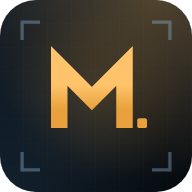
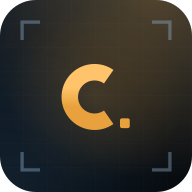
feat: знак иконки — «С» вместо «M»
Дуга с разрезом вправо и срезанными по радиусу концами, янтарная точка
логотипа осталась справа внизу. Кафель, сетка, зарево и уголки прицела
не менялись. На 16px буква читается — проверено на увеличенном рендере.

Пересборка набора из design/icons теперь скриптом: node scripts/build-icons.mjs
(sharp приезжает с next, отдельной зависимости не заводим). Он же собирает
favicon.ico с кадрами 16/32/48.

diff --git a/plans/2026-09-02-redizayn-frontend-shtab.md b/plans/2026-09-02-redizayn-frontend-shtab.md
@@ -48,6 +48,9 @@
       Манифест и иконки выведены из-под авторизации — браузер тянет их
       отдельным запросом без Basic-заголовка и на 401 молча остаётся без иконки.
       Исходники вариантов SVG — в `design/icons/`.
+- [x] **Фаза 8. Знак — «С» вместо «M»** (2026-09-02). Дуга с разрезом вправо,
+      концы срезаны по радиусу, точка логотипа осталась справа внизу; на 16px
+      читается. Пересборка набора из исходников — `node scripts/build-icons.mjs`.
 - [x] **Фаза 7. Вход вместо Basic Auth.** Chrome не показывает системный диалог
       Basic Auth в установленном как приложение окне — вводить креды негде.
       Сделали форму `/login` и подписанную куку `mitja_session` (HMAC от самих
